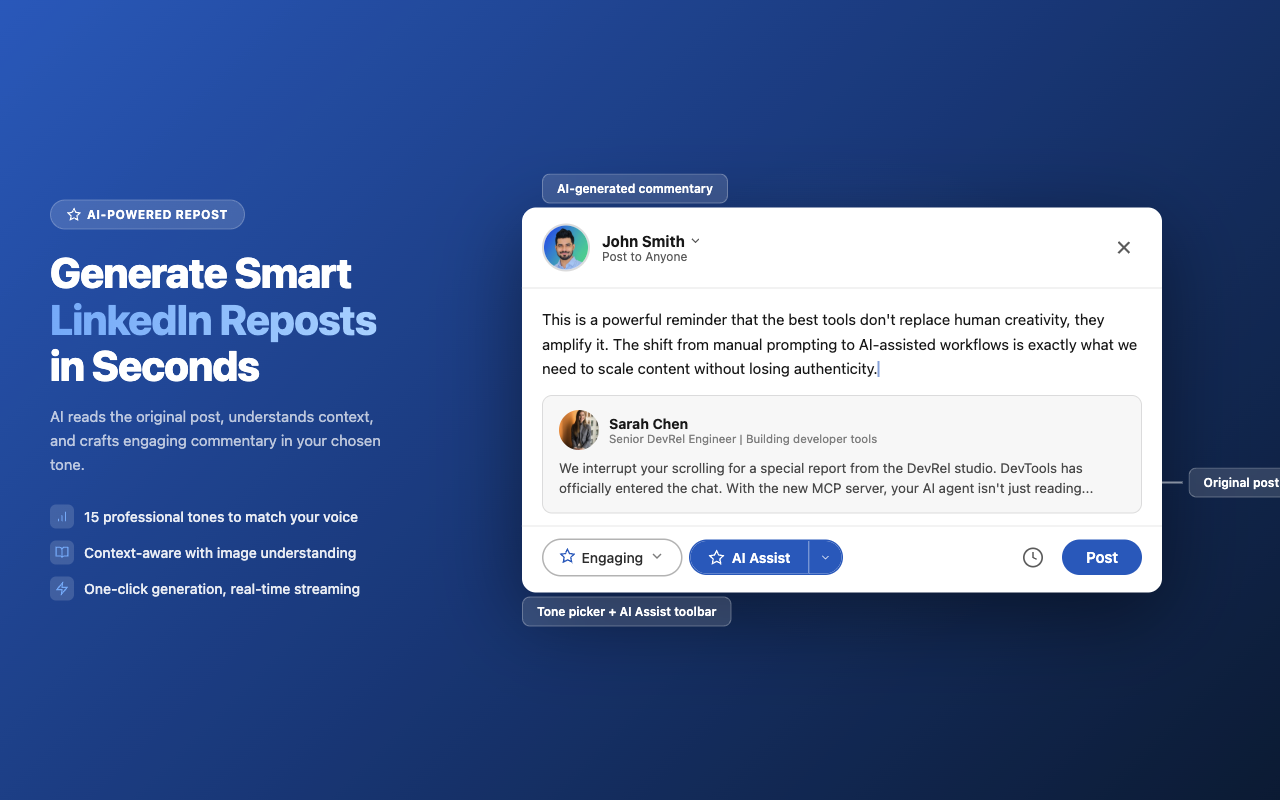
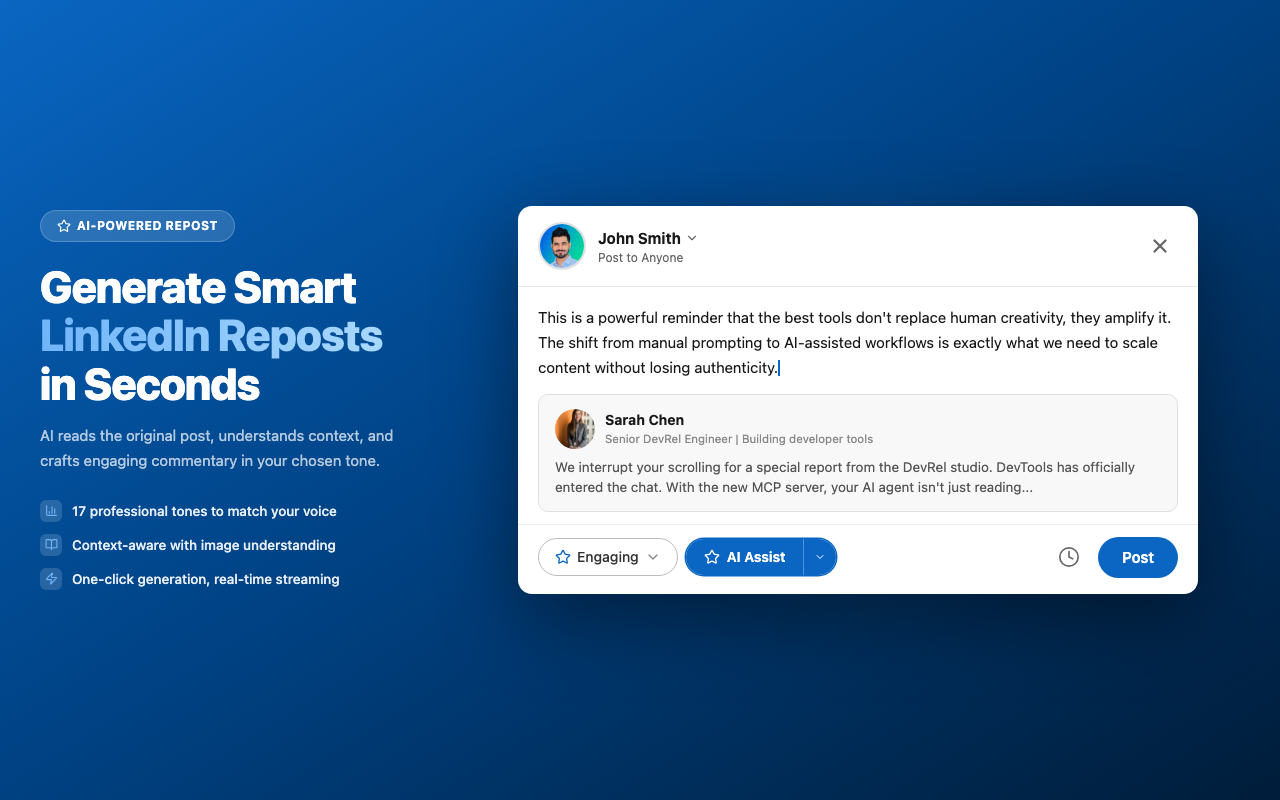
docs: rebrand to Quillzy, add Connection Note Mode, and update screenshots

diff --git a/README.md b/README.md
@@ -1,8 +1,8 @@
-# LinkedIn AI Repost - Documentation
+# Quillzy - Documentation
 
 [![Chrome Web Store](https://img.shields.io/chrome-web-store/v/khfikcfcjamhalghcbgnhldaenlccfpb?style=for-the-badge&logo=googlechrome&logoColor=white&label=Chrome%20Web%20Store)](https://chromewebstore.google.com/detail/khfikcfcjamhalghcbgnhldaenlccfpb)
 
-This repository contains public documentation and legal information for the **LinkedIn AI Repost with ChatGPT & Gemini** Chrome Extension.
+This repository contains public documentation and legal information for the **Quillzy: AI LinkedIn Writer** Chrome Extension.
 
 ## Screenshots
 
@@ -38,40 +38,47 @@ This repository contains public documentation and legal information for the **Li
 
 ## Quick Links
 
-- **Chrome Web Store**: [LinkedIn AI Repost with ChatGPT & Gemini](https://chromewebstore.google.com/detail/linkedin-ai-repost-with-c/khfikcfcjamhalghcbgnhldaenlccfpb)
-- **Source Code**: [GitHub](https://github.com/yogendrasinghx/linkedin_ai_repost)
+- **Chrome Web Store**: [Quillzy: AI LinkedIn Writer](https://chromewebstore.google.com/detail/linkedin-ai-repost-with-c/khfikcfcjamhalghcbgnhldaenlccfpb)
 - **Developer**: [Yogendra Singh](https://yogendrasingh.in)
 
 ## About the Extension
 
-LinkedIn AI Repost with ChatGPT & Gemini is a privacy-first Chrome extension that helps you create engaging LinkedIn content using AI. It supports:
+Quillzy is a free, privacy-first Chrome extension that uses AI to help you write better LinkedIn content — posts, reposts, comments, DM replies, and connection notes — in seconds.
 
-- **Repost Mode**: Generate commentary when sharing someone else's post (with image-aware AI)
-- **New Post Mode**: Rephrase and enhance your own draft content
-- **Comment Mode**: Generate context-aware comments on feed, company, profile, and activity post pages
+### Five Modes
+
+- **Repost Mode**: Generate compelling commentary when sharing someone else's post (with image-aware AI)
+- **New Post Mode**: Rephrase and enhance your own draft content while keeping your voice
+- **Comment Mode**: Generate context-aware comments on feed posts, company pages, profile feeds, and activity pages
 - **DM Reply Mode**: Generate conversation-aware replies in LinkedIn messaging
-- **Three AI Providers**: Browser AI (free, on-device), Google Gemini, and OpenAI GPT
-- **Free Tier**: Use ChatGPT, Claude, or Gemini web interfaces without API keys
+- **Connection Note Mode**: Generate personalized connection request notes when sending invitations
+
+### Three AI Providers
+
+- **Browser AI** (Gemini Nano): Free, on-device, works offline — no API key needed
+- **Google Gemini**: Cloud API with free tier available
+- **OpenAI GPT**: Premium cloud API
+- **Free Tier**: Use ChatGPT, Claude, or Gemini web interfaces without any API key
 
 ### Key Features
 
-- **Browser AI**: Free, on-device AI with Gemini Nano - no API key, works offline
 - **Image-Aware AI**: Extracts post images for richer, visually-aware commentary
-- **15 Tones**: Professional, Casual, Witty, Inspirational, Custom, and more
-- **Max Word Count**: Control the length of generated content
-- **Privacy-First**: Your API keys stay in your browser, no data collection
+- **17 Tones**: Professional, Casual, Witty, Inspirational, Storytelling, Custom, and more
+- **Max Word Count**: Control the length of generated content per mode
+- **Custom Prompts**: Create and manage your own prompt templates
+- **Privacy-First**: API keys never leave your browser. Browser AI runs 100% on-device
 - **Dark Mode**: Automatic theme detection with manual toggle
-- **BYOK Model**: Bring Your Own Key - you control costs
+- **BYOK Model**: Bring Your Own Key — you control costs
 
 ## Privacy & Security
 
 We take your privacy seriously:
 
-- **No data collection** - We don't collect, store, or transmit any personal data
-- **Local storage only** - API keys stored in Chrome's encrypted storage
-- **Direct API calls** - Your browser communicates directly with AI providers
-- **On-device AI** - Browser AI processes everything locally, data never leaves your browser
-- **No tracking** - No analytics, telemetry, or usage monitoring
+- **No data collection** — We don't collect, store, or transmit any personal data
+- **Local storage only** — API keys stored in Chrome's encrypted storage
+- **Direct API calls** — Your browser communicates directly with AI providers
+- **On-device AI** — Browser AI processes everything locally, data never leaves your browser
+- **No tracking** — No analytics, telemetry, or usage monitoring
 
 Read our full [Privacy Policy](PRIVACY_POLICY.md) for details.
 
@@ -80,7 +87,6 @@ Read our full [Privacy Policy](PRIVACY_POLICY.md) for details.
 For questions, concerns, or support:
 
 - **Developer Portfolio**: [https://yogendrasingh.in](https://yogendrasingh.in)
-- **GitHub Issues**: [https://github.com/yogendrasinghx/linkedin_ai_repost/issues](https://github.com/yogendrasinghx/linkedin_ai_repost/issues)
 
 ## License
 
@@ -90,4 +96,4 @@ This documentation repository is provided for transparency and Chrome Web Store 
 
 ---
 
-**Last Updated**: February 24, 2026
+**Last Updated**: February 25, 2026

diff --git a/TERMS_OF_SERVICE.md b/TERMS_OF_SERVICE.md
@@ -1,10 +1,10 @@
 # Terms of Service
 
-**Last Updated: February 24, 2026**
+**Last Updated: February 25, 2026**
 
 ## 1. Acceptance of Terms
 
-By installing and using the LinkedIn AI Repost with ChatGPT & Gemini Chrome Extension ("the Extension"), you agree to be bound by these Terms of Service ("Terms"). If you do not agree to these Terms, do not use the Extension.
+By installing and using the Quillzy Chrome Extension ("the Extension"), you agree to be bound by these Terms of Service ("Terms"). If you do not agree to these Terms, do not use the Extension.
 
 ## 2. Description of Service
 
@@ -14,6 +14,7 @@ The Extension is a browser tool that helps you create and enhance LinkedIn conte
 - **New Post Mode**: Rephrase and enhance your draft content
 - **Comment Mode**: Generate context-aware comments on LinkedIn posts
 - **DM Reply Mode**: Generate conversation-aware replies in LinkedIn messaging
+- **Connection Note Mode**: Generate personalized connection request notes when sending invitations
 - **AI Provider Integration**: Browser AI (on-device), Google Gemini API, and OpenAI API
 - **Free Tier Mode**: Optional integration with ChatGPT, Claude, and Gemini web interfaces
 
@@ -61,7 +62,7 @@ Browser AI mode does not require an API key.
 - You must review and approve all AI-generated content before posting
 - AI-generated content may contain errors, inaccuracies, or inappropriate material
 - You bear full responsibility for compliance with LinkedIn's content policies
-- This applies to all modes: posts, reposts, comments, and DM replies
+- This applies to all modes: posts, reposts, comments, DM replies, and connection notes
 
 ### 5.2 Compliance with Third-Party Terms
 
@@ -87,7 +88,7 @@ You may NOT use the Extension to:
 
 ### 6.1 Extension License
 
-The Extension is proprietary software. All rights reserved.
+Quillzy is proprietary software. All rights reserved.
 
 ### 6.2 AI-Generated Content
 
@@ -97,6 +98,7 @@ The Extension is proprietary software. All rights reserved.
 
 ### 6.3 Trademarks
 
+- "Quillzy" is a trademark of the Extension developer
 - "LinkedIn" is a trademark of LinkedIn Corporation
 - "ChatGPT" and "OpenAI" are trademarks of OpenAI
 - "Gemini" and "Google" are trademarks of Google LLC
@@ -143,11 +145,11 @@ You agree to indemnify and hold harmless the Extension developer from any claims
 - Your use of the Extension
 - Your violation of these Terms
 - Your violation of third-party rights (including LinkedIn's terms)
-- Content you post on LinkedIn using the Extension (including posts, comments, and DMs)
+- Content you post on LinkedIn using the Extension (including posts, comments, DMs, and connection notes)
 
 ## 9. Privacy
 
-Your use of the Extension is also governed by our [Privacy Policy](https://github.com/yogendrasinghx/Linkedin-AI-Repost-with-ChatGPT-Gemini/blob/main/PRIVACY_POLICY.md). Please review it to understand our privacy practices.
+Your use of the Extension is also governed by our [Privacy Policy](PRIVACY_POLICY.md). Please review it to understand our privacy practices.
 
 ## 10. Changes to Service
 
@@ -222,7 +224,6 @@ There are no third-party beneficiaries to these Terms.
 For questions about these Terms:
 
 - **Developer Portfolio**: [https://yogendrasingh.in](https://yogendrasingh.in)
-- **GitHub**: [https://github.com/yogendrasinghx/linkedin_ai_repost](https://github.com/yogendrasinghx/linkedin_ai_repost)
 
 ## 15. Acknowledgment
 

diff --git a/PRIVACY_POLICY.md b/PRIVACY_POLICY.md
@@ -1,10 +1,10 @@
 # Privacy Policy
 
-**Last Updated: February 24, 2026**
+**Last Updated: February 25, 2026**
 
 ## Overview
 
-LinkedIn AI Repost with ChatGPT & Gemini ("the Extension") is committed to protecting your privacy. This privacy policy explains how we handle data when you use our Chrome Extension.
+Quillzy ("the Extension") is committed to protecting your privacy. This privacy policy explains how we handle data when you use our Chrome Extension.
 
 ## Data Collection
 
@@ -31,6 +31,7 @@ When you use the Extension's features, the following data is read from LinkedIn 
 - **Post Images**: Image URLs from LinkedIn posts (fetched for image-aware AI commentary)
 - **Comment Context**: Text of the post being commented on
 - **DM Context**: The last 2-3 messages in a LinkedIn conversation (sender names and message text, for DM reply mode)
+- **Connection Note Context**: Recipient name and profile information from LinkedIn profile pages (for connection note mode)
 - **Editor Content**: Text you type in LinkedIn editors (for new post and draft-aware modes)
 
 This data is processed locally and sent only to your chosen AI provider for content generation. It is never stored persistently or sent to any server we control.
@@ -73,7 +74,7 @@ When a LinkedIn post contains images:
 The Extension requests the following permissions:
 
 - **storage**: To save your API keys, settings, and Browser AI download state securely in Chrome's storage
-- **Host permission (www.linkedin.com)**: To inject the AI writer toolbar on LinkedIn posts, comments, and DM editors
+- **Host permission (www.linkedin.com)**: To inject the Quillzy AI toolbar on LinkedIn posts, comments, DM editors, and connection note modals
 - **Host permission (media.licdn.com)**: To fetch post images for image-aware AI commentary
 - **Host permission (chatgpt.com, chat.openai.com)**: To auto-fill prompts on ChatGPT web for free tier mode
 - **Host permission (claude.ai)**: To auto-fill prompts on Claude web for free tier mode
@@ -132,7 +133,6 @@ We may update this privacy policy from time to time. The "Last Updated" date at 
 
 For questions or concerns about this privacy policy:
 - **Developer**: [https://yogendrasingh.in](https://yogendrasingh.in)
-- **GitHub**: [https://github.com/yogendrasinghx/linkedin_ai_repost](https://github.com/yogendrasinghx/linkedin_ai_repost)
 
 ## Disclaimer
 
